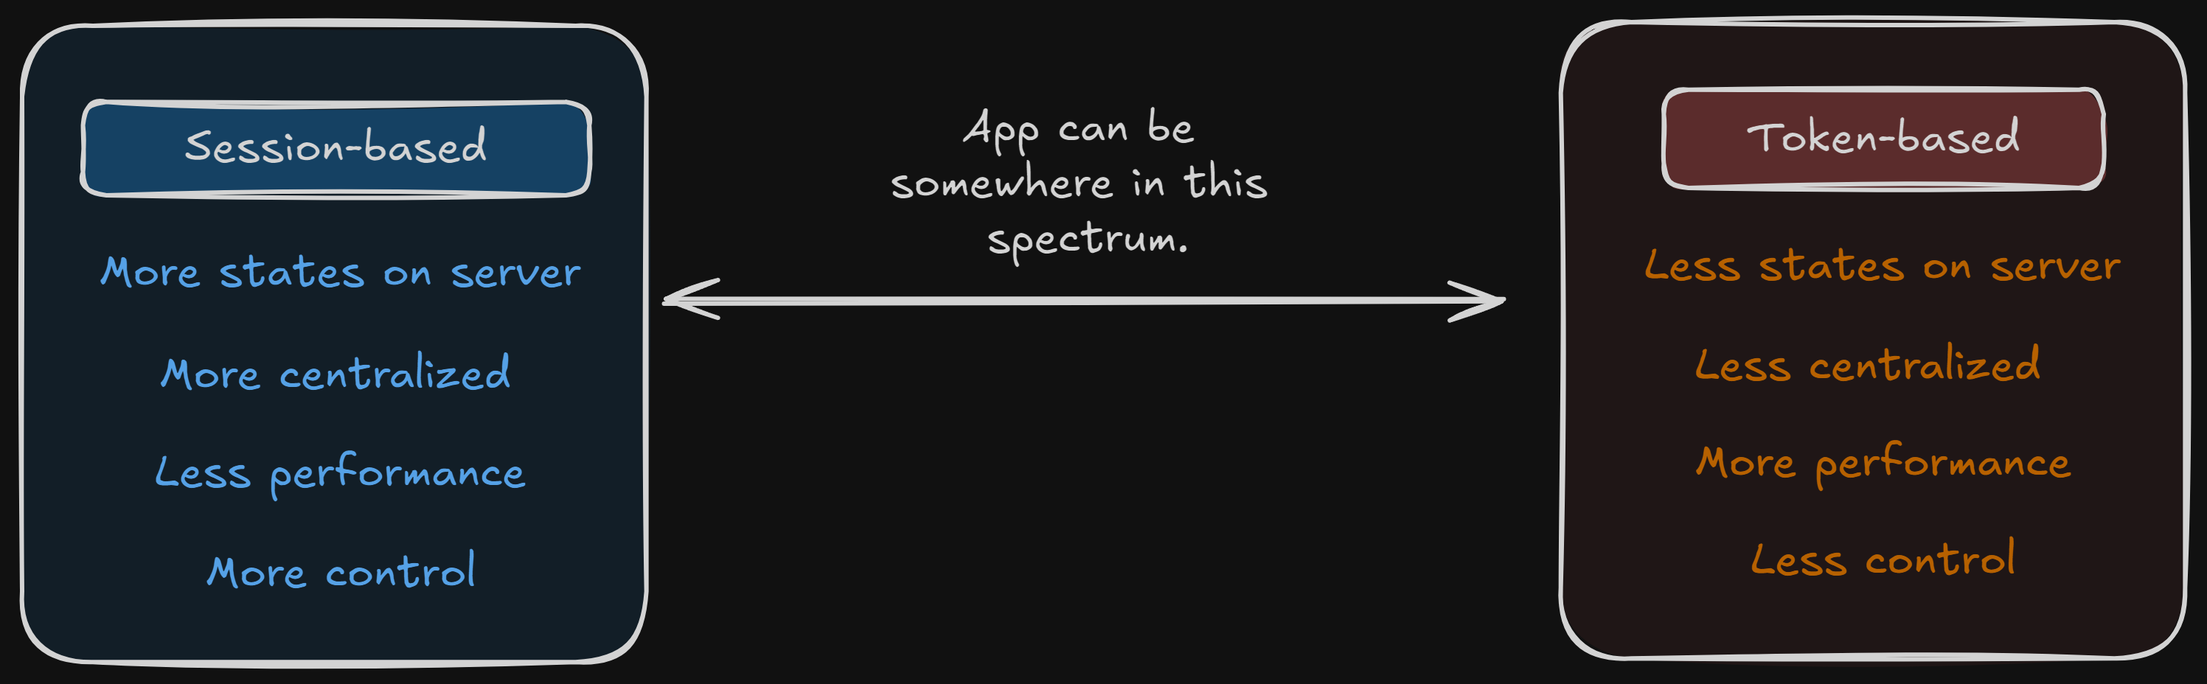
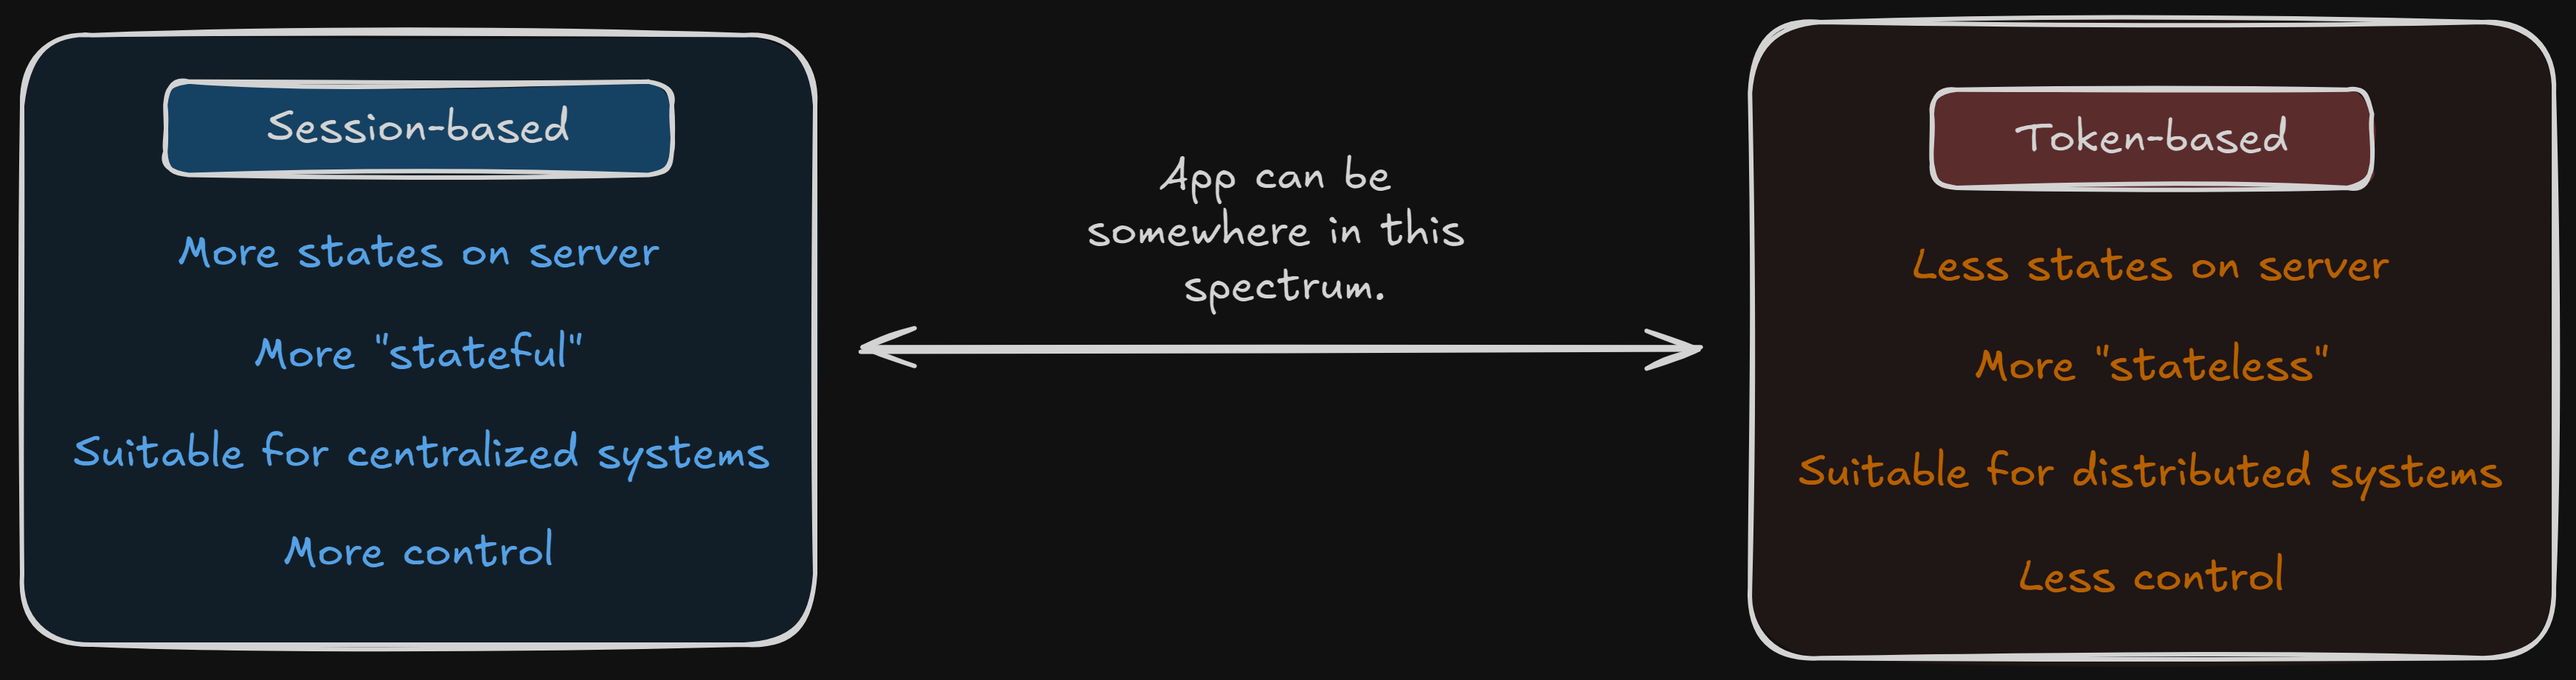
Update

diff --git a/src/T10_auth/T10p3.md b/src/T10_auth/T10p3.md
@@ -58,7 +58,22 @@ Most systems use both approches in various degrees.
 
 ---
 
-# Moving toward token-based approch
+# Please do not do this.
 
-- Think carefully about this since you are losing control over user's state.
+- It is temping to go 100% stateless using token-based approach (JWT) to avoid dealing to storing information on server.
+- Be aware of these [dangers](https://redis.io/blog/json-web-tokens-jwt-are-dangerous-for-user-sessions).
+
+> If you don't have database table storing `auth` in your system, there is something wrong.
+
+---
+
+# Considering token-based approch
+
+- You are losing control over user's state.
   - You are making your system less secured.
+- If you are concerned about hitting database too much,
+  - have you considered `redis`?
+- Modern solutions for tokens are as, if not more, complex as the session-based one.
+  - Acess/refresh tokens
+  - Token rotation
+  - Allowed/revoked list
